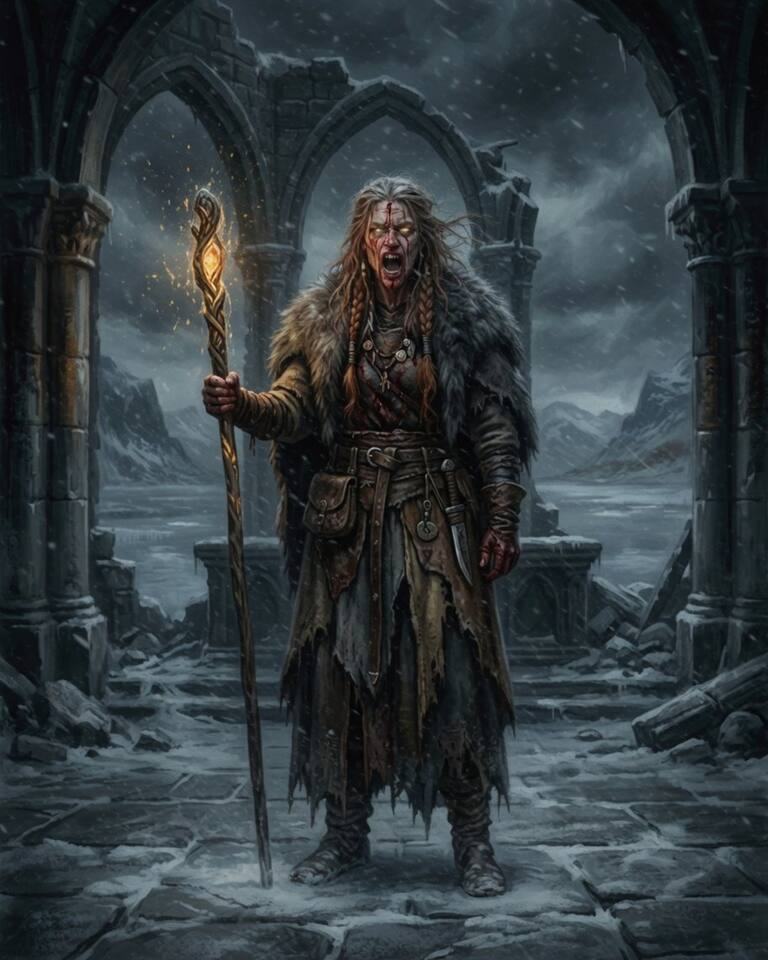
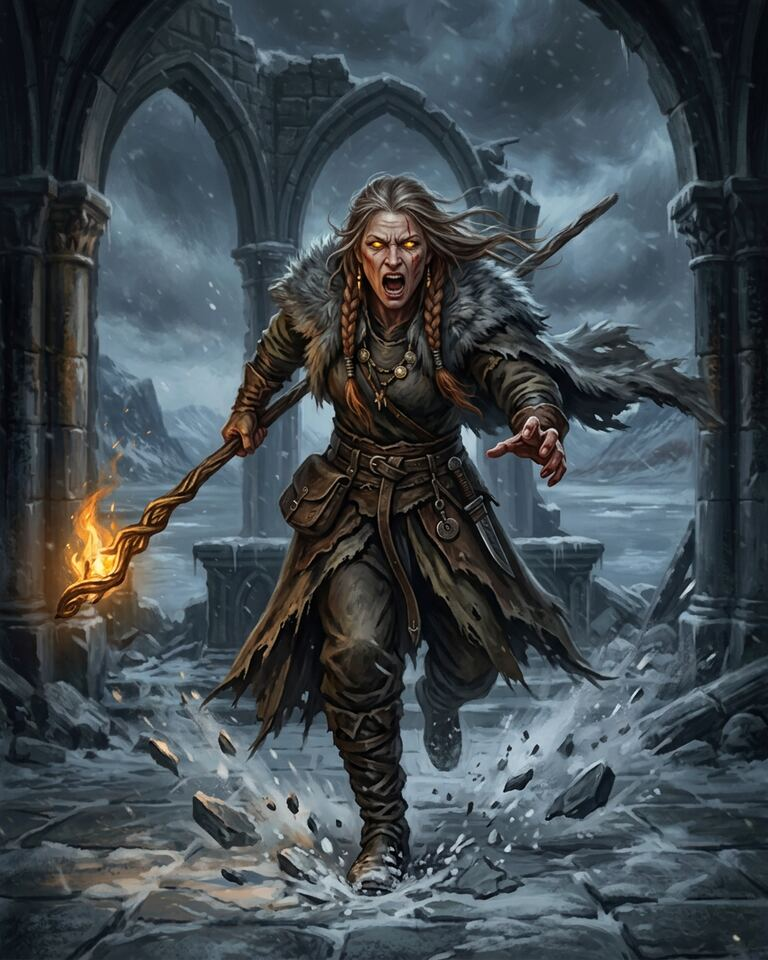
Illustrer la Völva en Furie chargeant l'ennemi

diff --git a/tests/rpg-card-changements.test.js b/tests/rpg-card-changements.test.js
@@ -1,6 +1,6 @@
 import test from 'node:test';
 import assert from 'node:assert/strict';
-import { existsSync } from 'node:fs';
+import { existsSync, readFileSync } from 'node:fs';
 import { fileURLToPath } from 'node:url';
 import { cardById, RPG_CREATURE_CARDS, RPG_HERO_CARDS, RPG_TOUR_CARDS, RPG_MAGIE_CARDS, RPG_DUEL_CARDS } from '../src/games/rpgCards.js';
 import {
@@ -130,12 +130,14 @@ test('la Völva seule sur la table se soigne elle-même, sans perdre son arrivé
 
 test('la Völva a sa peinture de Furie, livrée et révisée', () => {
   const carte = cardById('volva-soigneuse');
-  assert.equal(cardArtFurie(carte), '/cards/volva-soigneuse-furie.jpg?v=neige-furie-volva-v1');
+  assert.equal(cardArtFurie(carte), '/cards/volva-soigneuse-furie.jpg?v=neige-furie-volva-charge-v2');
   assert.equal(cardArt(carte), '/cards/volva-soigneuse.jpg?v=volva-soigneuse-souls-v1',
     'la face calme garde sa peinture');
-  assert.ok(existsSync(fileURLToPath(
-    new URL('../public/cards/volva-soigneuse-furie.jpg', import.meta.url),
-  )), 'volva-soigneuse-furie.jpg est livré avec le jeu');
+  const furie = fileURLToPath(new URL('../public/cards/volva-soigneuse-furie.jpg', import.meta.url));
+  const calme = fileURLToPath(new URL('../public/cards/volva-soigneuse.jpg', import.meta.url));
+  assert.ok(existsSync(furie), 'volva-soigneuse-furie.jpg est livré avec le jeu');
+  assert.notEqual(readFileSync(furie).equals(readFileSync(calme)), true,
+    'la charge en Furie a sa propre peinture, différente de la Völva calme');
 });
 
 test('la Furie de la Völva ne soigne plus personne : elle garde son +2 ATQ', () => {

diff --git a/src/games/rpgCardArt.js b/src/games/rpgCardArt.js
@@ -291,10 +291,9 @@ const CARD_ART_CACHE_VERSIONS = {
   // Le Gardien en Furie fonce sur l'ennemi, bouclier au corbeau en avant.
   'gardien-viking-du-fjord-furie': 'neige-gardien-charge-furie-v1',
   'guerrier-au-bouclier-rond-furie': 'neige-furie-souls-v1',
-  // La Völva : sa face de Furie la montre sanglante, les yeux d'or, le bâton
-  // en feu — la même ruine de fjord sous la tempête. Peinte après la passe
-  // commune, elle porte donc sa propre révision.
-  'volva-soigneuse-furie': 'neige-furie-volva-v1',
+  // La Völva : sa Furie la montre les yeux d'or, fonçant vers l'ennemi dans
+  // les ruines enneigées, bâton enflammé à la main. Sa face calme ne change pas.
+  'volva-soigneuse-furie': 'neige-furie-volva-charge-v2',
   'garde-du-trone-givre-furie': 'garde-trone-furie-v1',
   // Le Berserk en Furie charge de face sans bouclier, hache levée.
   // La Valkyrie garde sa propre peinture de Furie.
